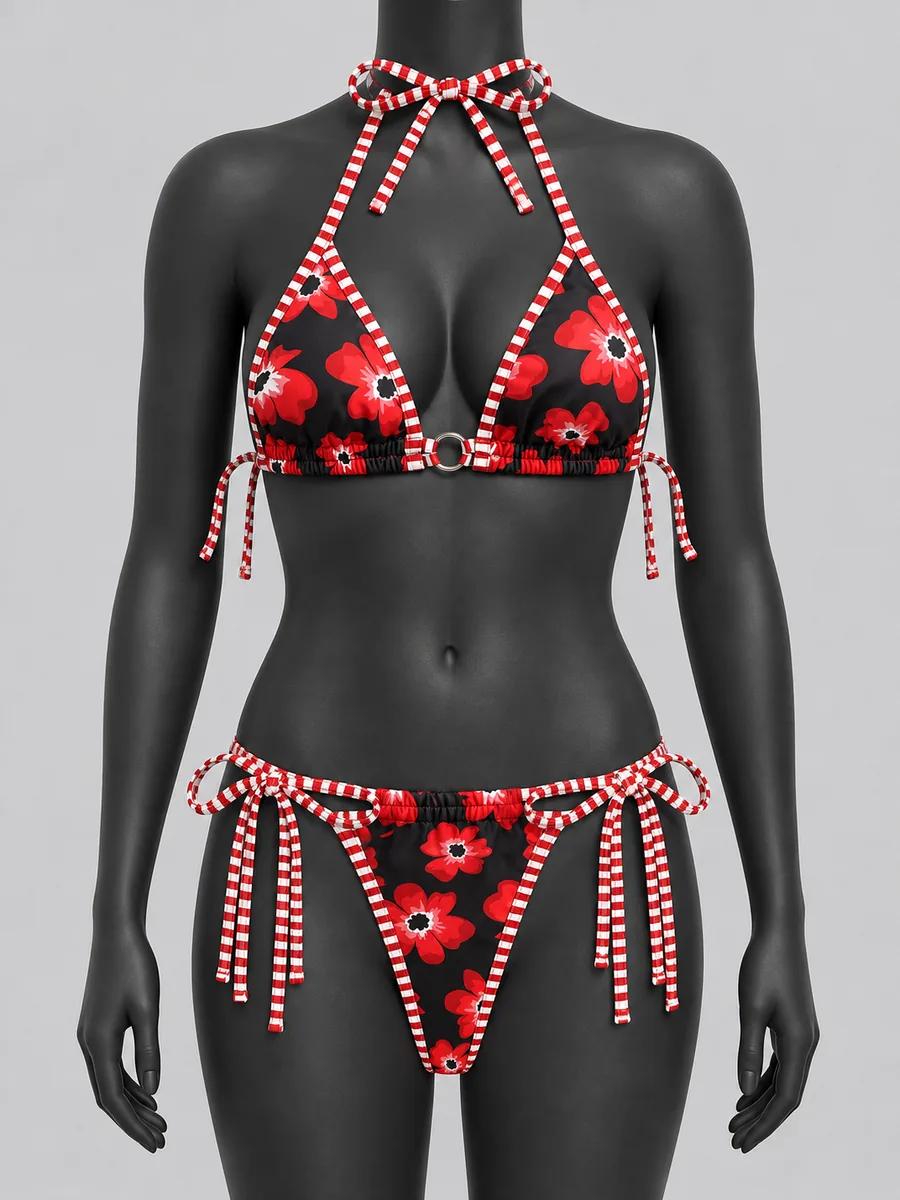
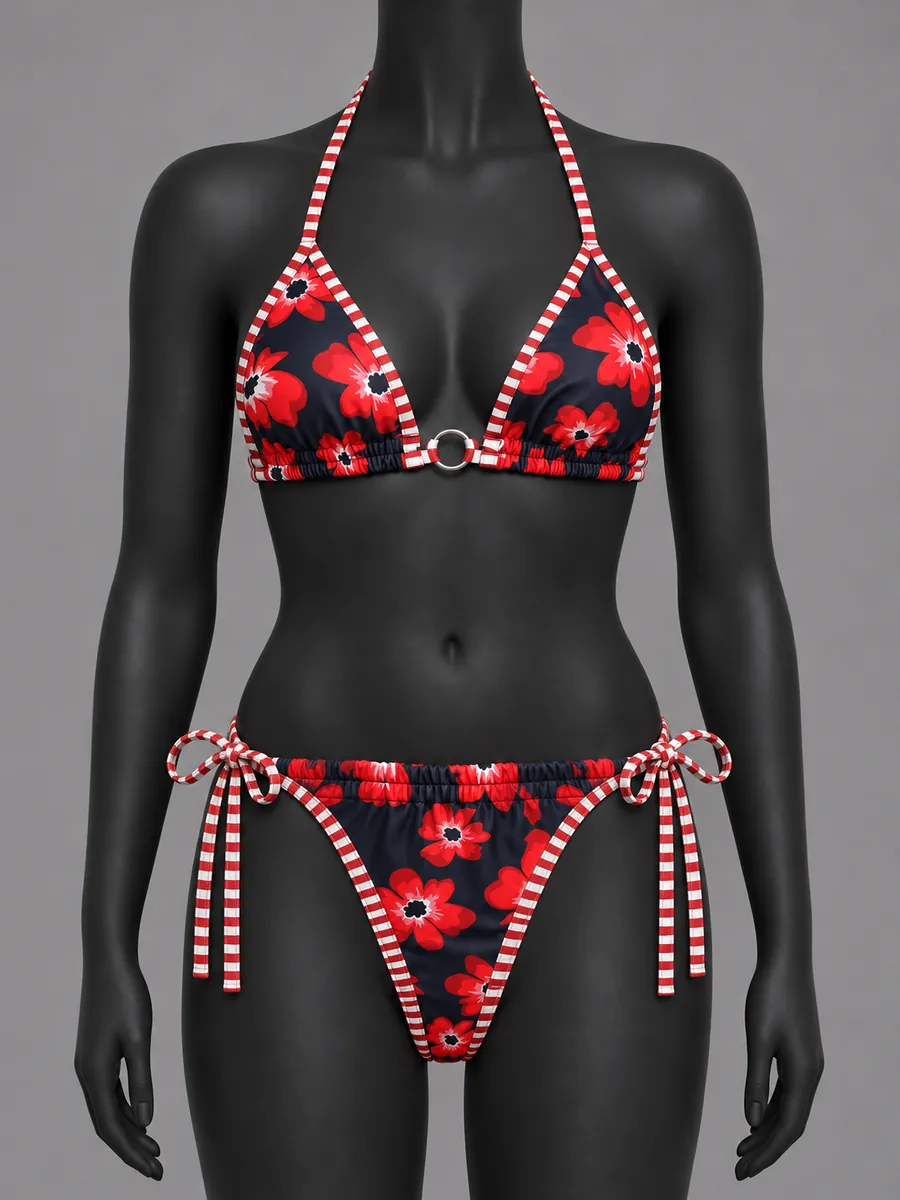
Photo fixes: flat lay first, floral mannequin restored, polka/floral photos removed
- Red Floral Tie-Side Bikini: remove photo with handwritten caption; restore
  the earlier mannequin view (halter strap behind the neck)
- Polka-Dot Cutout One-Piece: remove first flat lay; the other flat lay leads
- 14 studio listings: studio flat lay first, studio model second; hover shows
  the outfit being worn

Claude-Session: https://claude.ai/code/session_012j5Hr1tgJL1PAQh9xs9cdF

diff --git a/catalog.js b/catalog.js
@@ -55,9 +55,8 @@ window.BBU_CATALOG = {
   products: [
     /* ---------- Swimwear · Bikinis ---------- */
     { id: "floral", collection: "swim", category: "bikini", name: "Red Floral Tie-Side Bikini", tag: "Two-piece", price: 5000, sizes: ["L"], stock: null, description: null,
-      images: [{ src: "assets/bikinis/floral-studio-model.webp", alt: "Red Floral Tie-Side Bikini on a black display mannequin, studio front view (AI-generated visualization)", ai: true },
-        { src: "assets/bikinis/floral-studio-flatlay.webp", alt: "Red Floral Tie-Side Bikini laid flat on a linen backdrop (AI-generated visualization)", ai: true },
-        { src: "assets/bikinis/floral-1.webp", alt: "Flat lay of a red floral triangle bikini with red and white striped tie straps" },
+      images: [{ src: "assets/bikinis/floral-studio-flatlay.webp", alt: "Red Floral Tie-Side Bikini laid flat on a linen backdrop (AI-generated visualization)", ai: true },
+        { src: "assets/bikinis/floral-studio-model.webp", alt: "Red Floral Tie-Side Bikini on a black display mannequin, studio front view (AI-generated visualization)", ai: true },
         { src: "assets/bikinis/floral-photo-2.webp", alt: "Red Floral Tie-Side Bikini, back view" }] },
     { id: "hibiscus", collection: "swim", category: "bikini", name: "Blush Hibiscus Bikini", tag: "Two-piece", price: 5000, sizes: ["L"], stock: null, description: null,
       images: [{ src: "assets/bikinis/hibiscus-1.webp", alt: "Flat lay of a blush triangle bikini with an orange hibiscus print and tie strings" },
@@ -100,8 +99,8 @@ window.BBU_CATALOG = {
         { src: "assets/bikinis/red-bikini-photo-2.webp", alt: "Classic Red Bikini, back view" },
         { src: "assets/bikinis/red-bikini-render.webp", alt: "Front view of the Classic Red Bikini on a black display mannequin (AI-generated visualization)", ai: true }] },
     { id: "lemon", collection: "swim", category: "bikini", name: "Lemon Underwire Bikini", tag: "Two-piece", price: 5500, sizes: [], stock: 0, description: null, soldSizes: ["S"],
-      images: [{ src: "assets/bikinis/lemon-studio-model.webp", alt: "Lemon Underwire Bikini on a black display mannequin, studio front view (AI-generated visualization)", ai: true },
-        { src: "assets/bikinis/lemon-studio-flatlay.webp", alt: "Lemon Underwire Bikini laid flat on a linen backdrop (AI-generated visualization)", ai: true },
+      images: [{ src: "assets/bikinis/lemon-studio-flatlay.webp", alt: "Lemon Underwire Bikini laid flat on a linen backdrop (AI-generated visualization)", ai: true },
+        { src: "assets/bikinis/lemon-studio-model.webp", alt: "Lemon Underwire Bikini on a black display mannequin, studio front view (AI-generated visualization)", ai: true },
         { src: "assets/bikinis/lemon-1.webp", alt: "Flat lay of a lemon yellow underwire bikini" },
         { src: "assets/bikinis/lemon-photo-2.webp", alt: "Lemon Underwire Bikini, back view" },
         { src: "assets/bikinis/lemon-photo-3.webp", alt: "Lemon Underwire Bikini, close-up" }] },
@@ -145,10 +144,9 @@ window.BBU_CATALOG = {
         { src: "assets/one-pieces/aqua-render.webp", alt: "Front view of the Aqua & Black Ruffle One-Piece on a black display mannequin (AI-generated visualization)", ai: true }] },
     { id: "polka", collection: "swim", category: "one", name: "Polka-Dot Cutout One-Piece", tag: "One-piece", price: 5500, sizes: ["S"], stock: null, description: null,
       images: [
-        { src: "assets/one-pieces/polka-1.webp", alt: "Flat lay of a black and white polka-dot one-piece with a front cutout and criss-cross straps" },
+        { src: "assets/one-pieces/polka-4.webp", alt: "Flat lay of the black and white polka-dot cutout one-piece" },
         { src: "assets/one-pieces/polka-2.webp", alt: "Model wearing the polka-dot cutout one-piece" },
         { src: "assets/one-pieces/polka-3.webp", alt: "Back view of the polka-dot one-piece showing crossed straps" },
-        { src: "assets/one-pieces/polka-4.webp", alt: "Second flat lay of the polka-dot cutout one-piece" },
         { src: "assets/one-pieces/polka-photo-3.webp", alt: "Polka-Dot Cutout One-Piece worn by a model, close-up" }] },
     { id: "brasil", collection: "swim", category: "one", name: "Brasil Cutout One-Piece", tag: "One-piece", price: 5500, sizes: ["M"], stock: null, description: null,
       images: [
@@ -216,84 +214,84 @@ window.BBU_CATALOG = {
     /* ---------- Swimwear batch, Nov 18 2026 (real photos cropped from the owner's posts) ---------- */
     { id: "plum-flower-applique-bikini", collection: "swim", category: "bikini", name: "Plum Flower Appliqu\u00e9 Bikini", tag: "Two-piece", price: 5000, sizes: ["L"], stock: null, description: null,
       images: [
-        { src: "assets/bikinis/plum-flower-applique-bikini-studio-model.webp", alt: "Plum Flower Appliqué Bikini on a model, studio front view (AI-generated visualization)", ai: true },
         { src: "assets/bikinis/plum-flower-applique-bikini-studio-flatlay.webp", alt: "Plum Flower Appliqué Bikini laid flat on a linen backdrop (AI-generated visualization)", ai: true },
+        { src: "assets/bikinis/plum-flower-applique-bikini-studio-model.webp", alt: "Plum Flower Appliqué Bikini on a model, studio front view (AI-generated visualization)", ai: true },
         { src: "assets/bikinis/plum-flower-applique-bikini-1.webp", alt: "Plum Flower Appliqu\u00e9 Bikini worn by a model, front view" },
         { src: "assets/bikinis/plum-flower-applique-bikini-2.webp", alt: "Plum Flower Appliqu\u00e9 Bikini worn by a model, back view" },
         { src: "assets/bikinis/plum-flower-applique-bikini-3.webp", alt: "Plum Flower Appliqu\u00e9 Bikini worn by a model, close-up" }] },
     { id: "polka-dot-high-waist-swim-bottoms", collection: "swim", category: "swim-bottoms", name: "Polka Dot High-Waist Swim Bottoms", tag: "Bottoms only", price: 2000, sizes: ["2XL"], stock: null, description: null, note: "Bottoms only \u2014 the top shown is for styling and is not included.",
       images: [
-        { src: "assets/swim-bottoms/polka-dot-high-waist-swim-bottoms-studio-model.webp", alt: "Polka Dot High-Waist Swim Bottoms on a model, studio front view styled with a top that is not included (AI-generated visualization)", ai: true },
         { src: "assets/swim-bottoms/polka-dot-high-waist-swim-bottoms-studio-flatlay.webp", alt: "Polka Dot High-Waist Swim Bottoms laid flat on a linen backdrop (AI-generated visualization)", ai: true },
+        { src: "assets/swim-bottoms/polka-dot-high-waist-swim-bottoms-studio-model.webp", alt: "Polka Dot High-Waist Swim Bottoms on a model, studio front view styled with a top that is not included (AI-generated visualization)", ai: true },
         { src: "assets/swim-bottoms/polka-dot-high-waist-swim-bottoms-1.webp", alt: "Polka Dot High-Waist Swim Bottoms worn by a model, front view" },
         { src: "assets/swim-bottoms/polka-dot-high-waist-swim-bottoms-2.webp", alt: "Polka Dot High-Waist Swim Bottoms worn by a model, back view" }] },
     { id: "navy-open-back-one-piece", collection: "swim", category: "one", name: "Navy Open-Back One-Piece", tag: "One-piece", price: 5000, sizes: ["M"], stock: null, description: null,
       images: [
-        { src: "assets/one-pieces/navy-open-back-one-piece-studio-model.webp", alt: "Navy Open-Back One-Piece on a model, studio front view (AI-generated visualization)", ai: true },
         { src: "assets/one-pieces/navy-open-back-one-piece-studio-flatlay.webp", alt: "Navy Open-Back One-Piece laid flat on a linen backdrop (AI-generated visualization)", ai: true },
+        { src: "assets/one-pieces/navy-open-back-one-piece-studio-model.webp", alt: "Navy Open-Back One-Piece on a model, studio front view (AI-generated visualization)", ai: true },
         { src: "assets/one-pieces/navy-open-back-one-piece-1.webp", alt: "Navy Open-Back One-Piece worn by a model, front view" },
         { src: "assets/one-pieces/navy-open-back-one-piece-2.webp", alt: "Navy Open-Back One-Piece worn by a model, back view" },
         { src: "assets/one-pieces/navy-open-back-one-piece-3.webp", alt: "Navy Open-Back One-Piece worn by a model, side view" }] },
     { id: "red-floral-cross-back-tankini-set", collection: "swim", category: "set", name: "Red Floral Cross-Back Tankini Set", tag: "Tankini set", price: 6000, sizes: ["XL"], stock: null, description: null,
       images: [
-        { src: "assets/tankini-sets/red-floral-cross-back-tankini-set-studio-model.webp", alt: "Red Floral Cross-Back Tankini Set on a model, studio front view (AI-generated visualization)", ai: true },
         { src: "assets/tankini-sets/red-floral-cross-back-tankini-set-studio-flatlay.webp", alt: "Red Floral Cross-Back Tankini Set laid flat on a linen backdrop (AI-generated visualization)", ai: true },
+        { src: "assets/tankini-sets/red-floral-cross-back-tankini-set-studio-model.webp", alt: "Red Floral Cross-Back Tankini Set on a model, studio front view (AI-generated visualization)", ai: true },
         { src: "assets/tankini-sets/red-floral-cross-back-tankini-set-1.webp", alt: "Red Floral Cross-Back Tankini Set worn by a model, front view" },
         { src: "assets/tankini-sets/red-floral-cross-back-tankini-set-2.webp", alt: "Red Floral Cross-Back Tankini Set worn by a model, back view" },
         { src: "assets/tankini-sets/red-floral-cross-back-tankini-set-3.webp", alt: "Red Floral Cross-Back Tankini Set worn by a model, another angle" }] },
     { id: "black-square-neck-swim-dress", collection: "swim", category: "swim-dress", name: "Black Square-Neck Swim Dress", tag: "Swim dress", price: null, sizes: [], stock: null, description: null, note: "Photos show shorts under the dress. Message us to confirm whether they are included.",
       images: [
-        { src: "assets/swim-dresses/black-square-neck-swim-dress-studio-model.webp", alt: "Black Square-Neck Swim Dress on a model, studio front view (AI-generated visualization)", ai: true },
         { src: "assets/swim-dresses/black-square-neck-swim-dress-studio-flatlay.webp", alt: "Black Square-Neck Swim Dress laid flat on a linen backdrop (AI-generated visualization)", ai: true },
+        { src: "assets/swim-dresses/black-square-neck-swim-dress-studio-model.webp", alt: "Black Square-Neck Swim Dress on a model, studio front view (AI-generated visualization)", ai: true },
         { src: "assets/swim-dresses/black-square-neck-swim-dress-1.webp", alt: "Black Square-Neck Swim Dress worn by a model, front view" },
         { src: "assets/swim-dresses/black-square-neck-swim-dress-2.webp", alt: "Black Square-Neck Swim Dress worn by a model, back view" },
         { src: "assets/swim-dresses/black-square-neck-swim-dress-3.webp", alt: "Black Square-Neck Swim Dress worn by a model, close-up" }] },
     { id: "orange-floral-string-bikini", collection: "swim", category: "bikini", name: "Orange Floral String Bikini", tag: "Two-piece", price: 5000, sizes: ["L"], stock: null, description: null,
       images: [
-        { src: "assets/bikinis/orange-floral-string-bikini-studio-model.webp", alt: "Orange Floral String Bikini on a black display mannequin, studio front view (AI-generated visualization)", ai: true },
         { src: "assets/bikinis/orange-floral-string-bikini-studio-flatlay.webp", alt: "Orange Floral String Bikini laid flat on a linen backdrop (AI-generated visualization)", ai: true },
+        { src: "assets/bikinis/orange-floral-string-bikini-studio-model.webp", alt: "Orange Floral String Bikini on a black display mannequin, studio front view (AI-generated visualization)", ai: true },
         { src: "assets/bikinis/orange-floral-string-bikini-1.webp", alt: "Orange Floral String Bikini, front view" },
         { src: "assets/bikinis/orange-floral-string-bikini-2.webp", alt: "Orange Floral String Bikini, close-up" },
         { src: "assets/bikinis/orange-floral-string-bikini-3.webp", alt: "Orange Floral String Bikini, another angle" }] },
     { id: "dark-floral-tie-side-bikini", collection: "swim", category: "bikini", name: "Dark Floral Tie-Side Bikini", tag: "Two-piece", price: 5000, sizes: ["L"], stock: null, description: null,
       images: [
-        { src: "assets/bikinis/dark-floral-tie-side-bikini-studio-model.webp", alt: "Dark Floral Tie-Side Bikini on a model, studio front view (AI-generated visualization)", ai: true },
         { src: "assets/bikinis/dark-floral-tie-side-bikini-studio-flatlay.webp", alt: "Dark Floral Tie-Side Bikini laid flat on a linen backdrop (AI-generated visualization)", ai: true },
+        { src: "assets/bikinis/dark-floral-tie-side-bikini-studio-model.webp", alt: "Dark Floral Tie-Side Bikini on a model, studio front view (AI-generated visualization)", ai: true },
         { src: "assets/bikinis/dark-floral-tie-side-bikini-1.webp", alt: "Dark Floral Tie-Side Bikini worn by a model, front view" },
         { src: "assets/bikinis/dark-floral-tie-side-bikini-2.webp", alt: "Dark Floral Tie-Side Bikini worn by a model, back view" },
         { src: "assets/bikinis/dark-floral-tie-side-bikini-3.webp", alt: "Dark Floral Tie-Side Bikini worn by a model, another angle" }] },
     { id: "black-crossover-tankini-and-shorts-set", collection: "swim", category: "set", name: "Black Crossover Tankini and Shorts Set", tag: "Tankini set", price: 6000, sizes: ["3XL"], stock: null, description: null, includes: ["Tankini top", "Swim shorts"],
       images: [
-        { src: "assets/tankini-sets/black-crossover-tankini-and-shorts-set-studio-model.webp", alt: "Black Crossover Tankini and Shorts Set on a model, studio front view (AI-generated visualization)", ai: true },
         { src: "assets/tankini-sets/black-crossover-tankini-and-shorts-set-studio-flatlay.webp", alt: "Black Crossover Tankini and Shorts Set laid flat on a linen backdrop (AI-generated visualization)", ai: true },
+        { src: "assets/tankini-sets/black-crossover-tankini-and-shorts-set-studio-model.webp", alt: "Black Crossover Tankini and Shorts Set on a model, studio front view (AI-generated visualization)", ai: true },
         { src: "assets/tankini-sets/black-crossover-tankini-and-shorts-set-1.webp", alt: "Black Crossover Tankini and Shorts Set worn by a model, front view" },
         { src: "assets/tankini-sets/black-crossover-tankini-and-shorts-set-2.webp", alt: "Black Crossover Tankini and Shorts Set worn by a model, back view" },
         { src: "assets/tankini-sets/black-crossover-tankini-and-shorts-set-3.webp", alt: "Black Crossover Tankini and Shorts Set worn by a model, close-up" }] },
     { id: "chocolate-underwire-bikini", collection: "swim", category: "bikini", name: "Chocolate Underwire Bikini", tag: "Two-piece", price: 5000, sizes: ["M"], stock: null, description: null,
       images: [
-        { src: "assets/bikinis/chocolate-underwire-bikini-studio-model.webp", alt: "Chocolate Underwire Bikini on a black display mannequin, studio front view (AI-generated visualization)", ai: true },
         { src: "assets/bikinis/chocolate-underwire-bikini-studio-flatlay.webp", alt: "Chocolate Underwire Bikini laid flat on a linen backdrop (AI-generated visualization)", ai: true },
+        { src: "assets/bikinis/chocolate-underwire-bikini-studio-model.webp", alt: "Chocolate Underwire Bikini on a black display mannequin, studio front view (AI-generated visualization)", ai: true },
         { src: "assets/bikinis/chocolate-underwire-bikini-1.webp", alt: "Chocolate Underwire Bikini, front view" },
         { src: "assets/bikinis/chocolate-underwire-bikini-2.webp", alt: "Chocolate Underwire Bikini, back view" },
         { src: "assets/bikinis/chocolate-underwire-bikini-3.webp", alt: "Chocolate Underwire Bikini, close-up" }] },
     { id: "pale-blue-tie-front-bikini", collection: "swim", category: "bikini", name: "Pale Blue Tie-Front Bikini", tag: "Two-piece", price: 5500, sizes: ["XS"], stock: null, description: null,
       images: [
-        { src: "assets/bikinis/pale-blue-tie-front-bikini-studio-model.webp", alt: "Pale Blue Tie-Front Bikini on a model, studio front view (AI-generated visualization)", ai: true },
         { src: "assets/bikinis/pale-blue-tie-front-bikini-studio-flatlay.webp", alt: "Pale Blue Tie-Front Bikini laid flat on a linen backdrop (AI-generated visualization)", ai: true },
+        { src: "assets/bikinis/pale-blue-tie-front-bikini-studio-model.webp", alt: "Pale Blue Tie-Front Bikini on a model, studio front view (AI-generated visualization)", ai: true },
         { src: "assets/bikinis/pale-blue-tie-front-bikini-1.webp", alt: "Pale Blue Tie-Front Bikini, front view" },
         { src: "assets/bikinis/pale-blue-tie-front-bikini-2.webp", alt: "Pale Blue Tie-Front Bikini, back view" },
         { src: "assets/bikinis/pale-blue-tie-front-bikini-3.webp", alt: "Pale Blue Tie-Front Bikini, close-up" }] },
     { id: "striped-high-waist-swim-bottoms", collection: "swim", category: "swim-bottoms", name: "Striped High-Waist Swim Bottoms", tag: "Bottoms only", price: 1000, sizes: ["M"], stock: null, description: null, note: "Bottoms only \u2014 the top shown is for styling and is not included.",
       images: [
-        { src: "assets/swim-bottoms/striped-high-waist-swim-bottoms-studio-model.webp", alt: "Striped High-Waist Swim Bottoms on a model, studio front view styled with a top that is not included (AI-generated visualization)", ai: true },
         { src: "assets/swim-bottoms/striped-high-waist-swim-bottoms-studio-flatlay.webp", alt: "Striped High-Waist Swim Bottoms laid flat on a linen backdrop (AI-generated visualization)", ai: true },
+        { src: "assets/swim-bottoms/striped-high-waist-swim-bottoms-studio-model.webp", alt: "Striped High-Waist Swim Bottoms on a model, studio front view styled with a top that is not included (AI-generated visualization)", ai: true },
         { src: "assets/swim-bottoms/striped-high-waist-swim-bottoms-1.webp", alt: "Striped High-Waist Swim Bottoms worn by a model, front view" },
         { src: "assets/swim-bottoms/striped-high-waist-swim-bottoms-2.webp", alt: "Striped High-Waist Swim Bottoms worn by a model, back view" },
         { src: "assets/swim-bottoms/striped-high-waist-swim-bottoms-3.webp", alt: "Striped High-Waist Swim Bottoms worn by a model, side view" }] },
     { id: "green-underwire-bikini", collection: "swim", category: "bikini", name: "Green Underwire Bikini", tag: "Two-piece", price: 5000, sizes: ["S", "M"], stock: null, description: null,
       images: [
-        { src: "assets/bikinis/green-underwire-bikini-studio-model.webp", alt: "Green Underwire Bikini on a black display mannequin, studio front view (AI-generated visualization)", ai: true },
         { src: "assets/bikinis/green-underwire-bikini-studio-flatlay.webp", alt: "Green Underwire Bikini laid flat on a linen backdrop (AI-generated visualization)", ai: true },
+        { src: "assets/bikinis/green-underwire-bikini-studio-model.webp", alt: "Green Underwire Bikini on a black display mannequin, studio front view (AI-generated visualization)", ai: true },
         { src: "assets/bikinis/green-underwire-bikini-1.webp", alt: "Green Underwire Bikini, front view" },
         { src: "assets/bikinis/green-underwire-bikini-2.webp", alt: "Green Underwire Bikini, back view" },
         { src: "assets/bikinis/green-underwire-bikini-3.webp", alt: "Green Underwire Bikini, close-up" }] },
@@ -1654,6 +1652,105 @@ window.BBU_CATALOG = {
       illustrated: true,
       images: [
         { src: "assets/shop/20261116-wa0063-product.webp", alt: "Illustration of the America\u2019s Black Prophet Graphic Tee" },
-        { src: "assets/shop/20261116-wa0063-modeled.webp", alt: "Illustration of the America\u2019s Black Prophet Graphic Tee worn by a model" }] }
+        { src: "assets/shop/20261116-wa0063-modeled.webp", alt: "Illustration of the America\u2019s Black Prophet Graphic Tee worn by a model" }] },
+    { id: "20261118-WA0018", collection: "shop", category: "dresses-sets", name: "Black Wrap-Front Jumpsuit", tag: "Jumpsuit", price: 8000, sizes: ["20W"], stock: null, brand: "R&M Richards", department: "Women",
+      illustrated: true,
+      images: [
+        { src: "assets/shop/20261118-wa0018-product.webp", alt: "Illustration of the Black Wrap-Front Jumpsuit" },
+        { src: "assets/shop/20261118-wa0018-modeled.webp", alt: "Illustration of the Black Wrap-Front Jumpsuit worn by a model" }] },
+    { id: "20261118-WA0019", collection: "shop", category: "tops", name: "Striped Button-Up Shirt", tag: "Shirt", price: 3000, sizes: ["L"], stock: null, brand: "Primark", department: "Women",
+      illustrated: true,
+      images: [
+        { src: "assets/shop/20261118-wa0019-product.webp", alt: "Illustration of the Striped Button-Up Shirt" },
+        { src: "assets/shop/20261118-wa0019-modeled.webp", alt: "Illustration of the Striped Button-Up Shirt worn by a model" }] },
+    { id: "20261118-WA0021", collection: "shop", category: "dresses-sets", name: "Floral Puff-Sleeve Dress", tag: "Dress", price: 6000, sizes: ["S"], stock: null, brand: "CeCe", department: "Women",
+      illustrated: true,
+      images: [
+        { src: "assets/shop/20261118-wa0021-product.webp", alt: "Illustration of the Floral Puff-Sleeve Dress" },
+        { src: "assets/shop/20261118-wa0021-modeled.webp", alt: "Illustration of the Floral Puff-Sleeve Dress worn by a model" }] },
+    { id: "20261118-WA0024", collection: "shop", category: "dresses-sets", name: "Teal Cold-Shoulder Gown", tag: "Dress", price: 8000, sizes: ["22W"], stock: null, brand: "R&M Richards", department: "Women",
+      illustrated: true,
+      images: [
+        { src: "assets/shop/20261118-wa0024-product.webp", alt: "Illustration of the Teal Cold-Shoulder Gown" },
+        { src: "assets/shop/20261118-wa0024-modeled.webp", alt: "Illustration of the Teal Cold-Shoulder Gown worn by a model" }] },
+    { id: "20261118-WA0027", collection: "shop", category: "tops", name: "Cream Floral Flutter-Sleeve Top", tag: "Top", price: 5000, sizes: ["M"], stock: null, brand: "Old Navy", department: "Women",
+      illustrated: true,
+      images: [
+        { src: "assets/shop/20261118-wa0027-product.webp", alt: "Illustration of the Cream Floral Flutter-Sleeve Top" },
+        { src: "assets/shop/20261118-wa0027-modeled.webp", alt: "Illustration of the Cream Floral Flutter-Sleeve Top worn by a model" }] },
+    { id: "20261118-WA0028", collection: "shop", category: "dresses-sets", name: "Paisley Long-Sleeve Dress", tag: "Dress", price: 6000, sizes: ["S"], stock: null, brand: "Gabby Skye", department: "Women",
+      illustrated: true,
+      images: [
+        { src: "assets/shop/20261118-wa0028-product.webp", alt: "Illustration of the Paisley Long-Sleeve Dress" },
+        { src: "assets/shop/20261118-wa0028-modeled.webp", alt: "Illustration of the Paisley Long-Sleeve Dress worn by a model" }] },
+    { id: "20261118-WA0029", collection: "shop", category: "dresses-sets", name: "Leopard Print Fitted Dress", tag: "Dress", price: 3800, sizes: ["S"], stock: null, brand: "Hailey & June", department: "Women",
+      illustrated: true,
+      images: [
+        { src: "assets/shop/20261118-wa0029-product.webp", alt: "Illustration of the Leopard Print Fitted Dress" },
+        { src: "assets/shop/20261118-wa0029-modeled.webp", alt: "Illustration of the Leopard Print Fitted Dress worn by a model" }] },
+    { id: "20261118-WA0036", collection: "shop", category: "dresses-sets", name: "Yellow Off-Shoulder Maxi Dress", tag: "Dress", price: 4000, sizes: ["0XL"], stock: null, department: "Women",
+      illustrated: true,
+      images: [
+        { src: "assets/shop/20261118-wa0036-product.webp", alt: "Illustration of the Yellow Off-Shoulder Maxi Dress" },
+        { src: "assets/shop/20261118-wa0036-modeled.webp", alt: "Illustration of the Yellow Off-Shoulder Maxi Dress worn by a model" }] },
+    { id: "20261118-WA0039", collection: "shop", category: "dresses-sets", name: "Blue Lace-Up Back Maxi Dress", tag: "Dress", price: 7000, sizes: ["M"], stock: null, department: "Women",
+      illustrated: true,
+      images: [
+        { src: "assets/shop/20261118-wa0039-product.webp", alt: "Illustration of the Blue Lace-Up Back Maxi Dress" },
+        { src: "assets/shop/20261118-wa0039-modeled.webp", alt: "Illustration of the Blue Lace-Up Back Maxi Dress worn by a model" }] },
+    { id: "20261118-WA0045", collection: "shop", category: "dresses-sets", name: "Orange Floral Wrap Dress", tag: "Dress", price: 4000, sizes: ["M"], stock: null, brand: "H&M", department: "Women",
+      illustrated: true,
+      images: [
+        { src: "assets/shop/20261118-wa0045-product.webp", alt: "Illustration of the Orange Floral Wrap Dress" },
+        { src: "assets/shop/20261118-wa0045-modeled.webp", alt: "Illustration of the Orange Floral Wrap Dress worn by a model" }] },
+    { id: "20261118-WA0011", collection: "shop", category: "tops", name: "Sage Floral Lace-Neck Top", tag: "Top", price: 3000, sizes: ["XL"], stock: null, brand: "Alfred Dunner", department: "Women",
+      illustrated: true,
+      images: [
+        { src: "assets/shop/20261118-wa0011-product.webp", alt: "Illustration of the Sage Floral Lace-Neck Top" },
+        { src: "assets/shop/20261118-wa0011-modeled.webp", alt: "Illustration of the Sage Floral Lace-Neck Top worn by a model" }] },
+    { id: "20261118-WA0013", collection: "shop", category: "dresses-sets", name: "White Eyelet Trim Dress", tag: "Dress", price: 4000, sizes: ["2XL"], stock: null, department: "Women",
+      illustrated: true,
+      images: [
+        { src: "assets/shop/20261118-wa0013-product.webp", alt: "Illustration of the White Eyelet Trim Dress" },
+        { src: "assets/shop/20261118-wa0013-modeled.webp", alt: "Illustration of the White Eyelet Trim Dress worn by a model" }] },
+    { id: "20261118-WA0023", collection: "shop", category: "bottoms", name: "Brown Floral Tiered Mini Skirt", tag: "Skirt", price: 3000, sizes: ["XL"], stock: null, brand: "Sincerely Jules", department: "Women",
+      illustrated: true,
+      images: [
+        { src: "assets/shop/20261118-wa0023-product.webp", alt: "Illustration of the Brown Floral Tiered Mini Skirt" },
+        { src: "assets/shop/20261118-wa0023-modeled.webp", alt: "Illustration of the Brown Floral Tiered Mini Skirt worn by a model" }] },
+    { id: "20261118-WA0025", collection: "shop", category: "dresses-sets", name: "Hot Pink Wrap Dress", tag: "Dress", price: 5000, sizes: ["S"], stock: null, brand: "Vicky Tiel", department: "Women",
+      illustrated: true,
+      images: [
+        { src: "assets/shop/20261118-wa0025-modeled.webp", alt: "Illustration of the Hot Pink Wrap Dress worn by a model" }] },
+    { id: "20261118-WA0026", collection: "shop", category: "dresses-sets", name: "Burgundy Lace Cape Pants Set", tag: "Matching set", price: 8000, sizes: ["16"], stock: null, brand: "R&M Richards", department: "Women",
+      illustrated: true,
+      images: [
+        { src: "assets/shop/20261118-wa0026-product.webp", alt: "Illustration of the Burgundy Lace Cape Pants Set" },
+        { src: "assets/shop/20261118-wa0026-modeled.webp", alt: "Illustration of the Burgundy Lace Cape Pants Set worn by a model" }] },
+    { id: "20261118-WA0030", collection: "shop", category: "tops", name: "Blue Green Scallop Print Top", tag: "Top", price: 3000, sizes: ["M"], stock: null, brand: "Max Studio", department: "Women",
+      illustrated: true,
+      images: [
+        { src: "assets/shop/20261118-wa0030-product.webp", alt: "Illustration of the Blue Green Scallop Print Top" },
+        { src: "assets/shop/20261118-wa0030-modeled.webp", alt: "Illustration of the Blue Green Scallop Print Top worn by a model" }] },
+    { id: "20261118-WA0038", collection: "shop", category: "tops", name: "Navy Gold-Trim V-Neck Top", tag: "Top", price: 2500, sizes: ["M"], stock: null, department: "Women",
+      illustrated: true,
+      images: [
+        { src: "assets/shop/20261118-wa0038-product.webp", alt: "Illustration of the Navy Gold-Trim V-Neck Top" },
+        { src: "assets/shop/20261118-wa0038-modeled.webp", alt: "Illustration of the Navy Gold-Trim V-Neck Top worn by a model" }] },
+    { id: "20261118-WA0040", collection: "shop", category: "tops", name: "Ivory Botanical Button-Up Shirt", tag: "Shirt", price: 2300, sizes: ["0XL"], stock: null, department: "Women",
+      illustrated: true,
+      images: [
+        { src: "assets/shop/20261118-wa0040-product.webp", alt: "Illustration of the Ivory Botanical Button-Up Shirt" },
+        { src: "assets/shop/20261118-wa0040-modeled.webp", alt: "Illustration of the Ivory Botanical Button-Up Shirt worn by a model" }] },
+    { id: "20261118-WA0042", collection: "shop", category: "tops", name: "Blue Vertical Stripe Button-Up", tag: "Shirt", price: 6000, sizes: ["L"], stock: null, brand: "Fashion Nova", department: "Women",
+      illustrated: true,
+      images: [
+        { src: "assets/shop/20261118-wa0042-product.webp", alt: "Illustration of the Blue Vertical Stripe Button-Up" },
+        { src: "assets/shop/20261118-wa0042-modeled.webp", alt: "Illustration of the Blue Vertical Stripe Button-Up worn by a model" }] },
+    { id: "20261118-WA0044", collection: "shop", category: "tops", name: "Red Gingham Button-Up Shirt", tag: "Men's \u00b7 Shirt", price: 6500, sizes: ["2XL"], stock: null, brand: "Tommy Hilfiger", department: "Men",
+      illustrated: true,
+      images: [
+        { src: "assets/shop/20261118-wa0044-product.webp", alt: "Illustration of the Red Gingham Button-Up Shirt" },
+        { src: "assets/shop/20261118-wa0044-modeled.webp", alt: "Illustration of the Red Gingham Button-Up Shirt worn by a model" }] }
   ]
 };

diff --git a/app.js b/app.js
@@ -192,15 +192,14 @@
     return sizeField + '<button type="button" class="btn-add" data-add="' + esc(p.id) + '">Add to bag<span class="visually-hidden">: ' + esc(p.name) + (p.sizes.length === 1 ? ", size " + esc(p.sizes[0]) : "") + "</span></button>";
   }
 
-  // The photo shown on hover: a model-worn shot when the card leads with a flat lay,
-  // a real photo when the card leads with an AI view, otherwise simply the next photo.
+  // The photo shown on hover: when the card leads with the product on its own, the model-worn
+  // shot (a real photo first, a mannequin/studio view if there is none); otherwise the next photo.
   function hoverImage(p) {
     var rest = p.images.slice(1);
     if (!rest.length) return null;
     var first = p.images[0];
     var worn = function (im) { return /\b(model|worn|wearing|mannequin)\b/i.test(im.alt); };
     var pick = function (f) { return rest.filter(f)[0]; };
-    if (first.ai) return pick(function (im) { return !im.ai && worn(im); }) || pick(function (im) { return !im.ai; }) || rest[0];
     if (!worn(first)) return pick(function (im) { return worn(im) && !im.ai; }) || pick(worn) || rest[0];
     return rest[0];
   }
